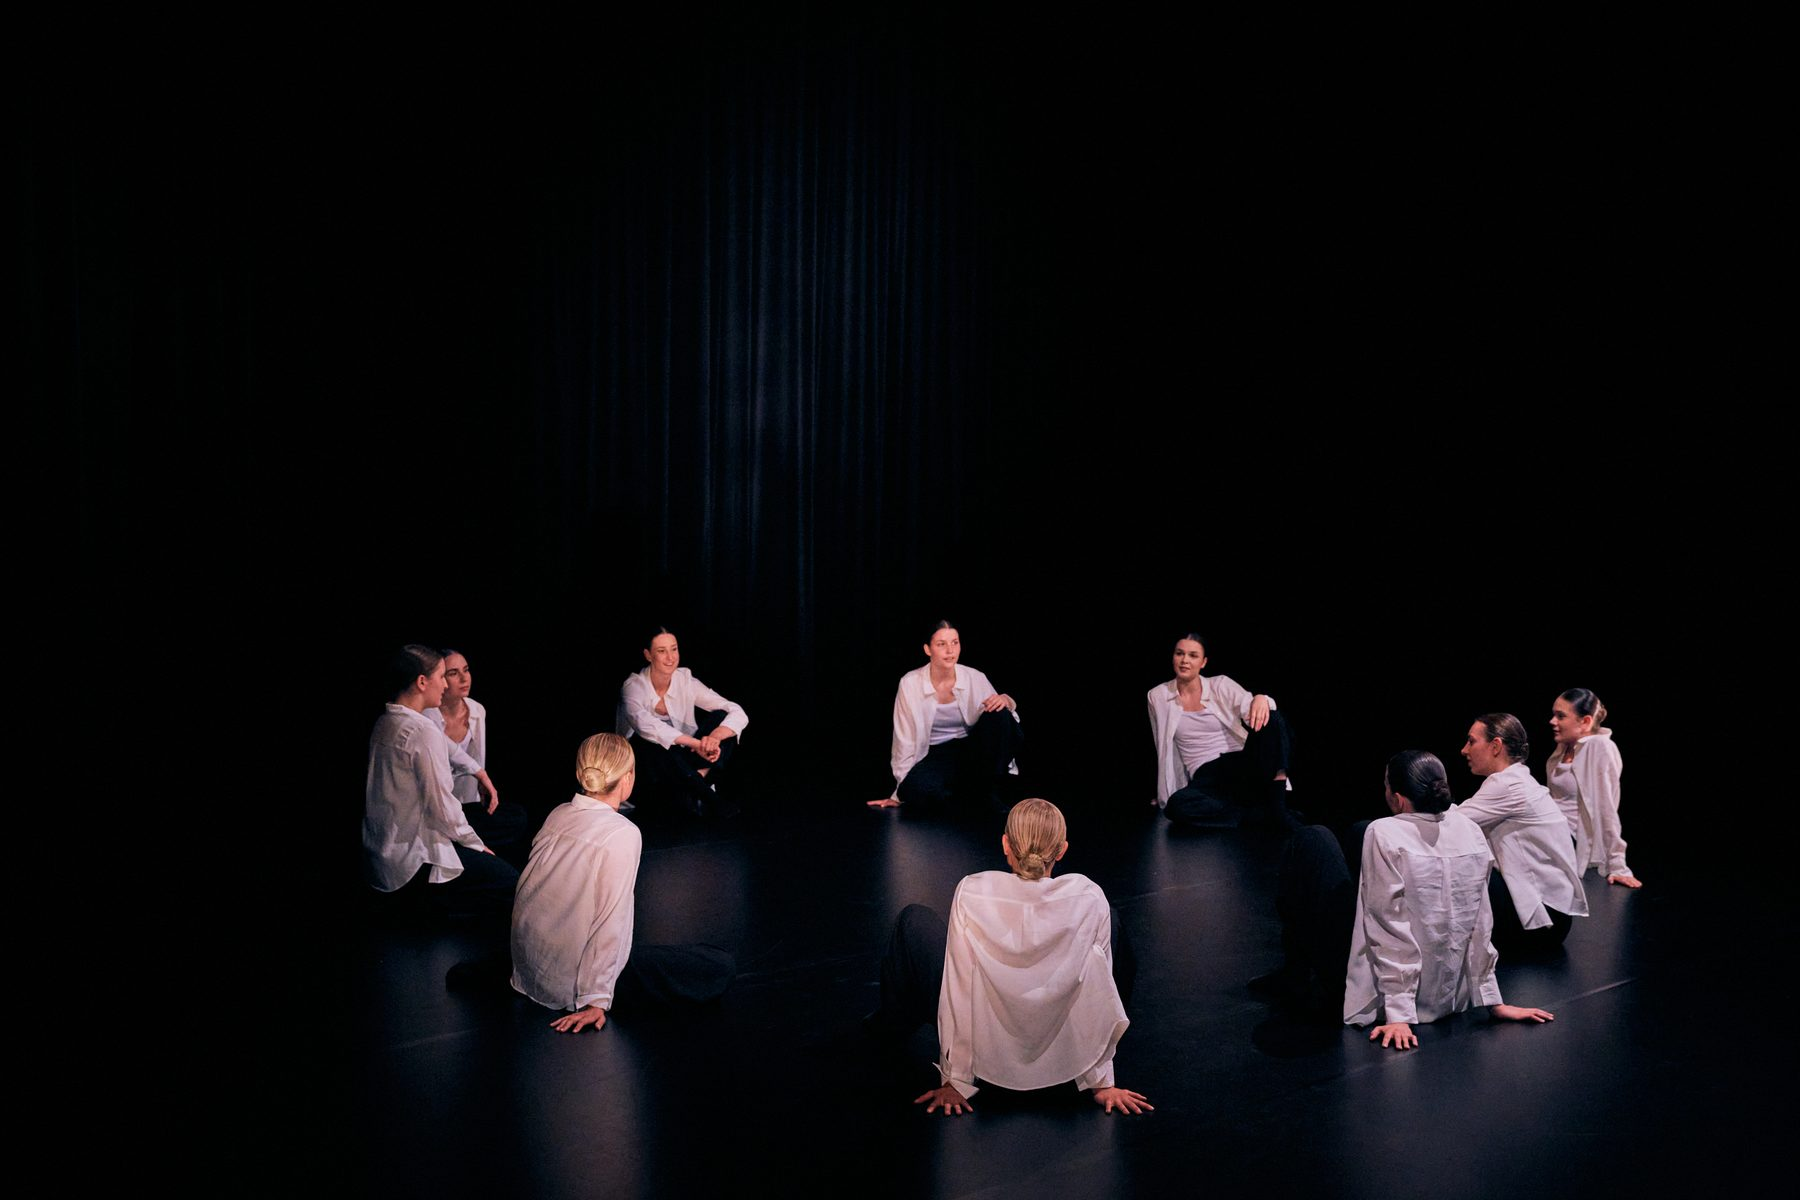
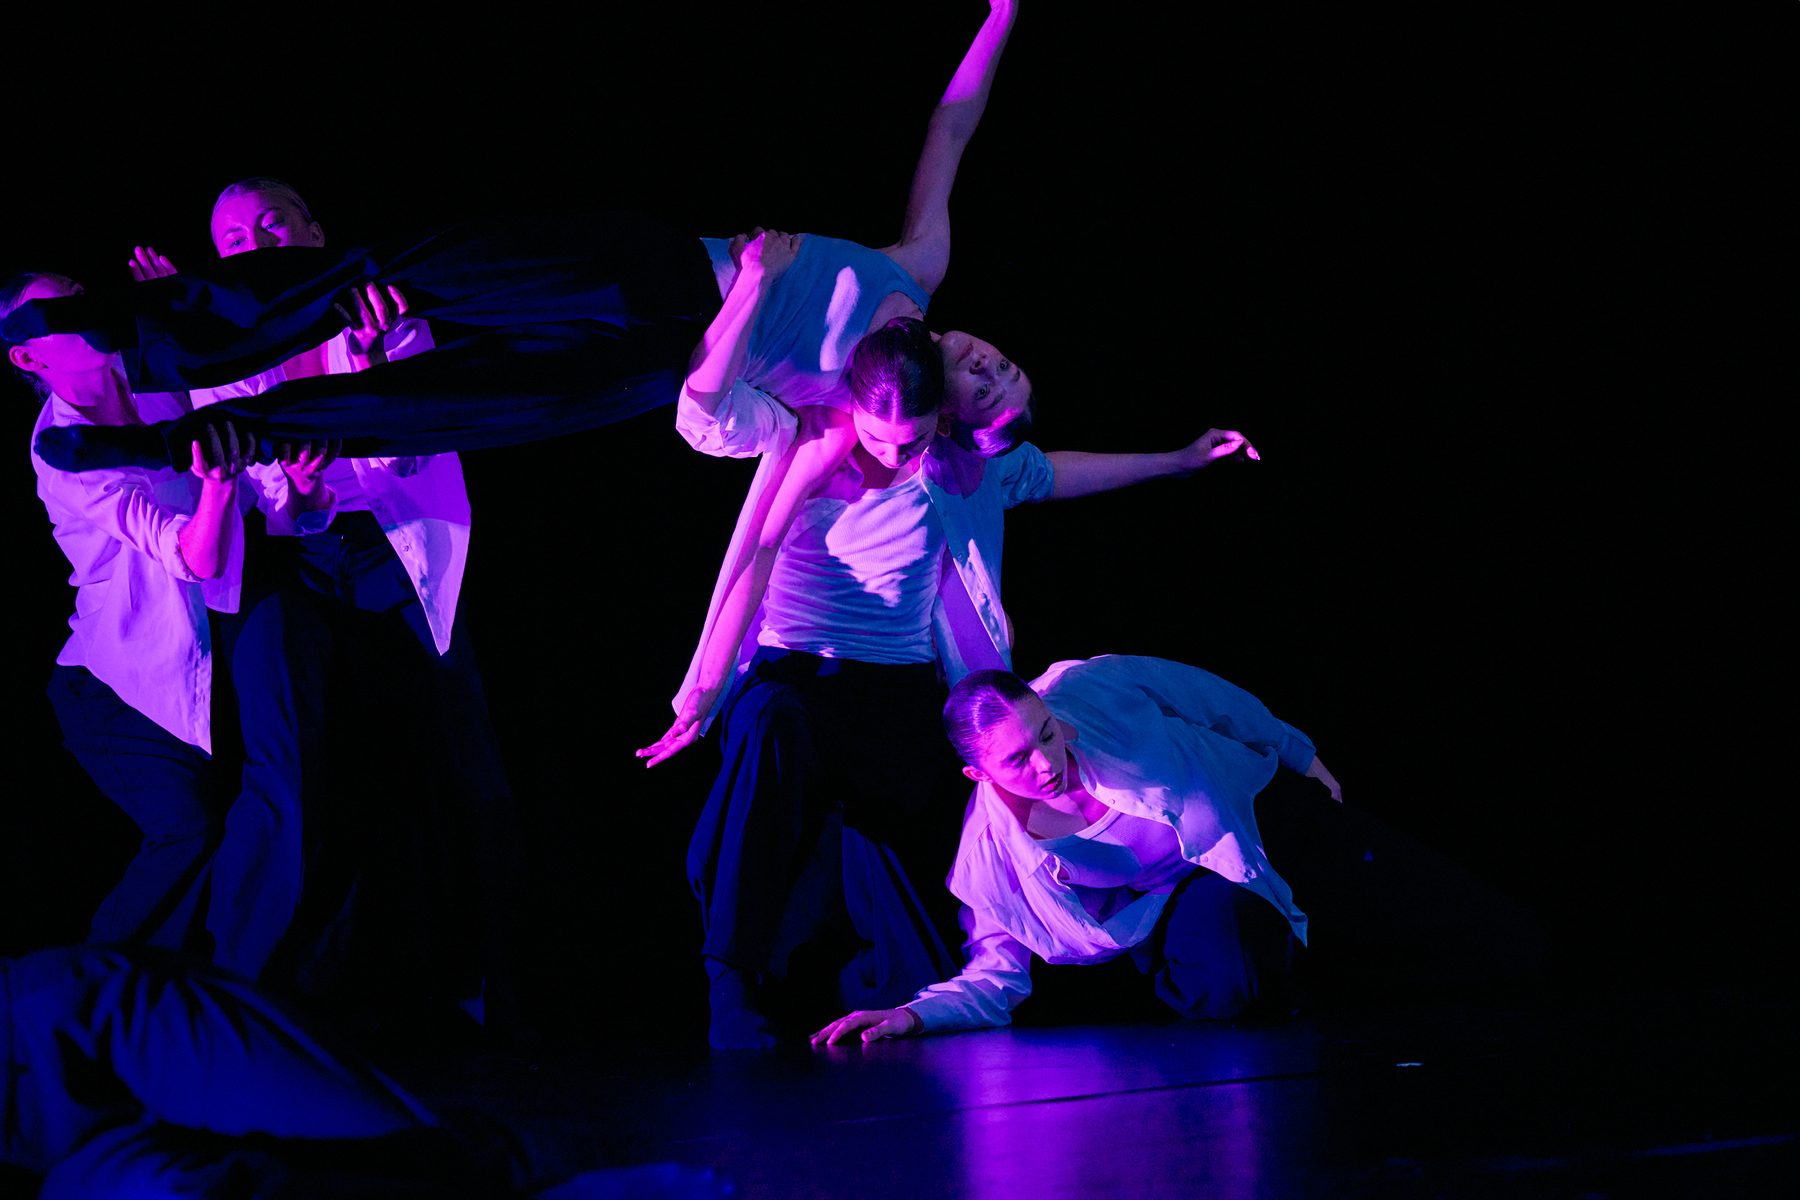
Add files via upload

diff --git a/index.html b/index.html
@@ -8,7 +8,7 @@
 <link rel="preconnect" href="https://fonts.googleapis.com">
 <link rel="preconnect" href="https://fonts.gstatic.com" crossorigin>
 <link href="https://fonts.googleapis.com/css2?family=DM+Sans:wght@400;500;600;700&family=Open+Sans:wght@400;600&display=swap" rel="stylesheet">
-<link rel="stylesheet" href="/assets/style.css">
+<link rel="stylesheet" href="/assets/style.css?v=3">
 <script>
 if (window.location.hash && /confirmation_token|recovery_token|invite_token|access_token/.test(window.location.hash)) {
   window.location.replace("/admin/" + window.location.hash);
@@ -101,6 +101,6 @@ if (window.location.hash && /confirmation_token|recovery_token|invite_token|acce
 </footer>
 
 <script>document.getElementById("year").textContent = new Date().getFullYear();</script>
-<script src="/assets/main.js"></script>
+<script src="/assets/main.js?v=3"></script>
 </body>
 </html>

diff --git a/pridejte-se.html b/pridejte-se.html
@@ -7,7 +7,7 @@
 <link rel="preconnect" href="https://fonts.googleapis.com">
 <link rel="preconnect" href="https://fonts.gstatic.com" crossorigin>
 <link href="https://fonts.googleapis.com/css2?family=DM+Sans:wght@400;500;600;700&family=Open+Sans:wght@400;600&display=swap" rel="stylesheet">
-<link rel="stylesheet" href="/assets/style.css">
+<link rel="stylesheet" href="/assets/style.css?v=3">
 <script>
 if (window.location.hash && /confirmation_token|recovery_token|invite_token|access_token/.test(window.location.hash)) {
   window.location.replace("/admin/" + window.location.hash);
@@ -136,6 +136,6 @@ if (window.location.hash && /confirmation_token|recovery_token|invite_token|acce
 </footer>
 
 <script>document.getElementById("year").textContent = new Date().getFullYear();</script>
-<script src="/assets/main.js"></script>
+<script src="/assets/main.js?v=3"></script>
 </body>
 </html>

diff --git a/o-nas.html b/o-nas.html
@@ -7,7 +7,7 @@
 <link rel="preconnect" href="https://fonts.googleapis.com">
 <link rel="preconnect" href="https://fonts.gstatic.com" crossorigin>
 <link href="https://fonts.googleapis.com/css2?family=DM+Sans:wght@400;500;600;700&family=Open+Sans:wght@400;600&display=swap" rel="stylesheet">
-<link rel="stylesheet" href="/assets/style.css">
+<link rel="stylesheet" href="/assets/style.css?v=3">
 <script>
 if (window.location.hash && /confirmation_token|recovery_token|invite_token|access_token/.test(window.location.hash)) {
   window.location.replace("/admin/" + window.location.hash);
@@ -67,6 +67,6 @@ if (window.location.hash && /confirmation_token|recovery_token|invite_token|acce
 </footer>
 
 <script>document.getElementById("year").textContent = new Date().getFullYear();</script>
-<script src="/assets/main.js"></script>
+<script src="/assets/main.js?v=3"></script>
 </body>
 </html>

diff --git a/repertoar.html b/repertoar.html
@@ -7,7 +7,7 @@
 <link rel="preconnect" href="https://fonts.googleapis.com">
 <link rel="preconnect" href="https://fonts.gstatic.com" crossorigin>
 <link href="https://fonts.googleapis.com/css2?family=DM+Sans:wght@400;500;600;700&family=Open+Sans:wght@400;600&display=swap" rel="stylesheet">
-<link rel="stylesheet" href="/assets/style.css">
+<link rel="stylesheet" href="/assets/style.css?v=3">
 <script>
 if (window.location.hash && /confirmation_token|recovery_token|invite_token|access_token/.test(window.location.hash)) {
   window.location.replace("/admin/" + window.location.hash);
@@ -61,6 +61,6 @@ if (window.location.hash && /confirmation_token|recovery_token|invite_token|acce
 </footer>
 
 <script>document.getElementById("year").textContent = new Date().getFullYear();</script>
-<script src="/assets/main.js"></script>
+<script src="/assets/main.js?v=3"></script>
 </body>
 </html>

diff --git a/spolupracujte.html b/spolupracujte.html
@@ -7,7 +7,7 @@
 <link rel="preconnect" href="https://fonts.googleapis.com">
 <link rel="preconnect" href="https://fonts.gstatic.com" crossorigin>
 <link href="https://fonts.googleapis.com/css2?family=DM+Sans:wght@400;500;600;700&family=Open+Sans:wght@400;600&display=swap" rel="stylesheet">
-<link rel="stylesheet" href="/assets/style.css">
+<link rel="stylesheet" href="/assets/style.css?v=3">
 <script>
 if (window.location.hash && /confirmation_token|recovery_token|invite_token|access_token/.test(window.location.hash)) {
   window.location.replace("/admin/" + window.location.hash);
@@ -53,6 +53,6 @@ if (window.location.hash && /confirmation_token|recovery_token|invite_token|acce
 </footer>
 
 <script>document.getElementById("year").textContent = new Date().getFullYear();</script>
-<script src="/assets/main.js"></script>
+<script src="/assets/main.js?v=3"></script>
 </body>
 </html>

diff --git a/assets/main.js b/assets/main.js
@@ -154,6 +154,17 @@ function waitForImages() {
   }));
 }
 
+function formatHeroLede() {
+  const el = qs(".hero p.lede");
+  if (!el) return;
+  const text = el.textContent.trim();
+  const idx = text.indexOf(". ");
+  if (idx === -1) return;
+  const first = text.slice(0, idx + 1);
+  const rest = text.slice(idx + 1).trim();
+  el.innerHTML = `<span class="lede-strong">${first}</span> <span class="lede-rest">${rest}</span>`;
+}
+
 document.addEventListener("DOMContentLoaded", async () => {
   initNavToggle();
   initHeaderScroll();
@@ -164,6 +175,7 @@ document.addEventListener("DOMContentLoaded", async () => {
       loadJSON("/content/gallery.json").catch(() => ({ items: [] })),
     ]);
     fillText(document, site);
+    formatHeroLede();
     initHeroFallback(site);
     renderNews(document, workshops);
     await renderGallery(document, gallery);

diff --git a/assets/style.css b/assets/style.css
@@ -199,6 +199,15 @@ nav.primary-nav a[aria-current="page"]::after {
   color: rgba(255,255,255,0.9);
   margin: 0;
 }
+.lede-strong {
+  font-weight: 700;
+  font-size: 1.2em;
+  color: #ffffff;
+}
+.lede-rest {
+  font-weight: 400;
+  color: rgba(255,255,255,0.72);
+}
 
 /* ---------- page banner (subpages) ---------- */
 .page-banner {
@@ -389,7 +398,7 @@ section.block.soft {
   width: 100%;
   height: 340px;
   background-size: cover;
-  background-position: center;
+  background-position: center 75%;
   background-color: var(--bg-soft);
   margin: 28px 0;
 }
